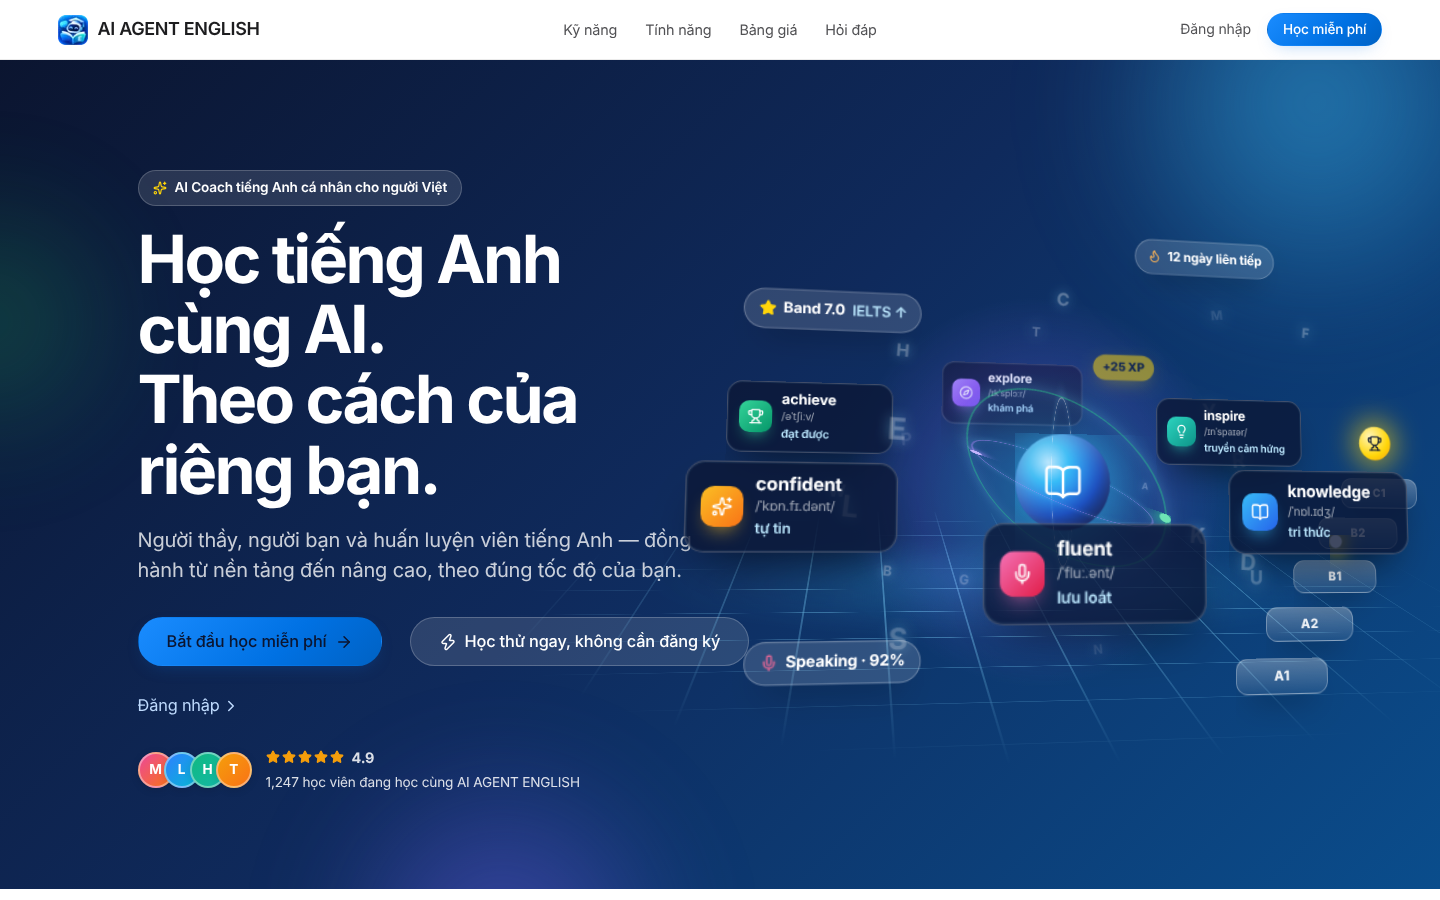
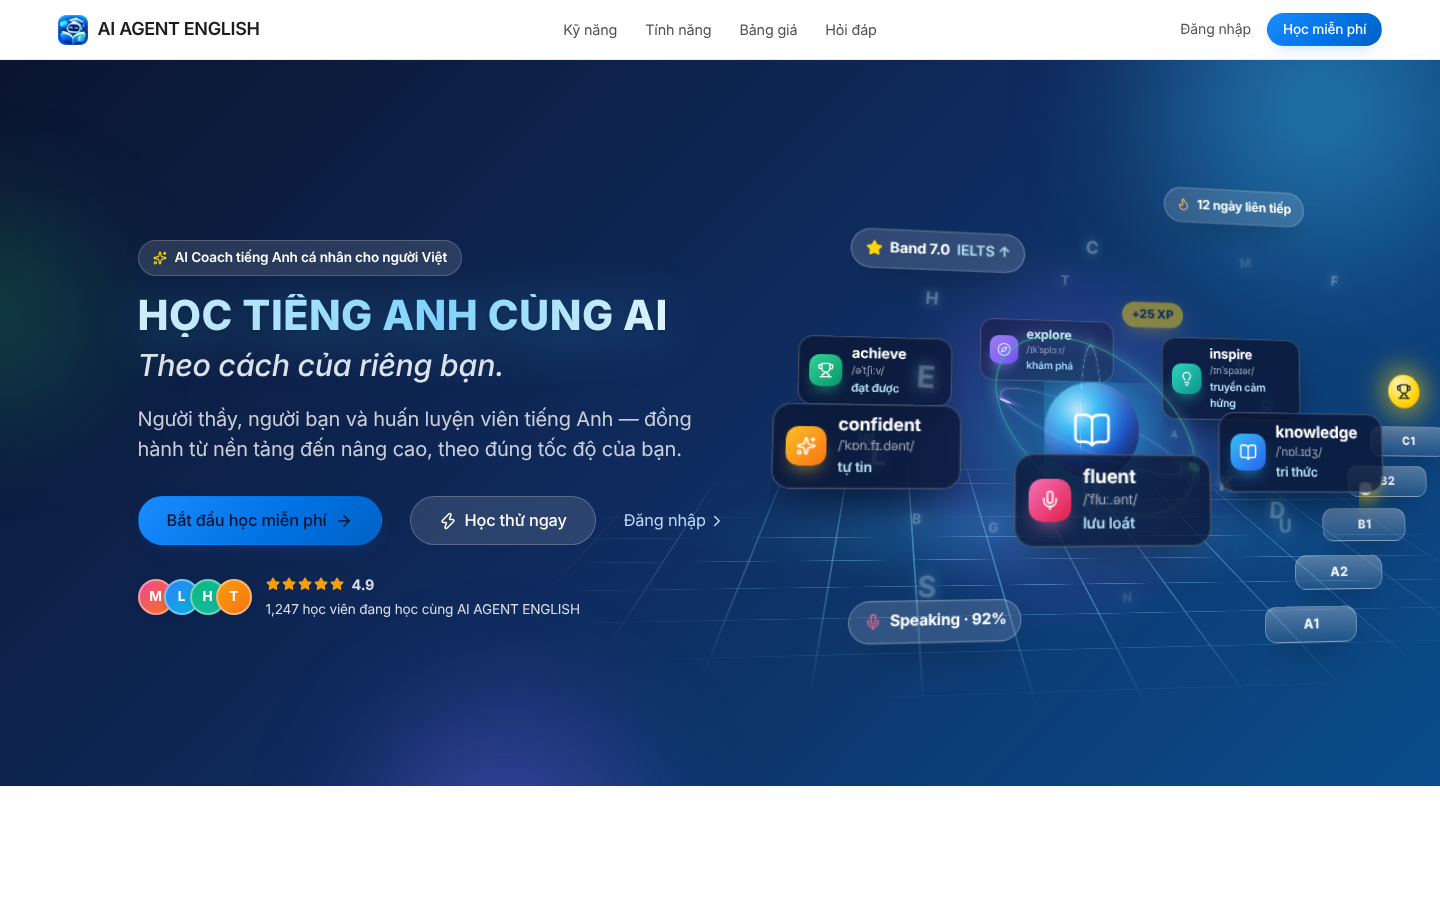
Landing hero: shorter guest button, 3D scene kept clear of the copy column
Claude-Session: https://claude.ai/code/session_01NQYD2mPXRd9sz3ZXhsrWoz

diff --git a/agen-web/src/app/globals.css b/agen-web/src/app/globals.css
@@ -2762,7 +2762,7 @@ a.quest-title:hover { color: var(--agen-primary); opacity: 1; }
   position: relative; z-index: 1; display: grid; grid-template-columns: minmax(0, 1fr); gap: 40px; align-items: center;
   padding: clamp(56px, 8vw, 110px) var(--page-gutter) clamp(56px, 8vw, 96px); max-width: 1280px; margin: 0 auto;
 }
-@media (min-width: 960px) { .lp-hero-inner { grid-template-columns: minmax(0, 1.15fr) minmax(0, 0.85fr); } }
+@media (min-width: 960px) { .lp-hero-inner { grid-template-columns: minmax(0, 1.1fr) minmax(0, 0.9fr); gap: 56px; } .lp-hero-copy { padding-right: 8px; } }
 .lp-hero-copy h1 { color: #fff; font-size: clamp(2.3rem, 4.6vw, 4.25rem); font-weight: 700; line-height: 1.06; letter-spacing: -0.04em; margin-bottom: 20px; }
 .lp-hero-copy p { color: rgba(255,255,255,0.78); font-size: clamp(1.05rem, 1.5vw, 1.25rem); line-height: 1.5; margin-bottom: 32px; max-width: 600px; }
 .lp-hero .hero-badge { background: rgba(255,255,255,0.12); border-color: rgba(255,255,255,0.2); color: #fff; box-shadow: none; }
@@ -2879,6 +2879,7 @@ a.quest-title:hover { color: var(--agen-primary); opacity: 1; }
    ============================================ */
 .lp-hero-scene { position: relative; min-height: 520px; }
 .h3d { position: absolute; inset: 0; perspective: 1100px; perspective-origin: 50% 45%; }
+@media (min-width: 960px) { .h3d { left: 40px; right: -40px; } }
 .h3d-stage { position: absolute; inset: 0; transform-style: preserve-3d; }
 .h3d-stage > * { position: absolute; left: 50%; top: 50%; transform-style: preserve-3d; }
 
@@ -2928,13 +2929,13 @@ a.quest-title:hover { color: var(--agen-primary); opacity: 1; }
 /* orbiting vocabulary cards (always facing the viewer) */
 .h3d-orbit-tilt { width: 0; height: 0; transform: rotateX(68deg); }
 .h3d-orbit-spin { position: absolute; transform-style: preserve-3d; animation: h3d-spin 42s linear infinite; }
-.h3d-orbit-item { position: absolute; transform: rotateZ(var(--a)) translateX(255px); transform-style: preserve-3d; }
+.h3d-orbit-item { position: absolute; transform: rotateZ(var(--a)) translateX(215px); transform-style: preserve-3d; }
 .h3d-orbit-unspin { transform-style: preserve-3d; animation: h3d-unspin 42s linear infinite; }
 .h3d-orbit-untilt { transform: rotateZ(calc(-1 * var(--a))) rotateX(-68deg); transform-style: preserve-3d; }
 @keyframes h3d-spin { to { transform: rotateZ(360deg); } }
 @keyframes h3d-unspin { to { transform: rotateZ(-360deg); } }
 .h3d-word {
-  display: flex; align-items: center; gap: 9px; width: 164px; padding: 9px 11px; border-radius: 15px; translate: -50% -50%;
+  display: flex; align-items: center; gap: 9px; width: 152px; padding: 8px 10px; border-radius: 15px; translate: -50% -50%;
   background: rgba(10,22,52,0.78); border: 1px solid rgba(255,255,255,0.22); box-shadow: 0 18px 40px -16px rgba(0,0,0,0.6), 0 0 0 1px rgba(125,211,252,0.08) inset;
   color: #fff; animation: h3d-bob 4.5s ease-in-out infinite; animation-delay: var(--d);
 }
@@ -2964,9 +2965,9 @@ a.quest-title:hover { color: var(--agen-primary); opacity: 1; }
 /* floating product chips */
 .h3d-chip { display: inline-flex; align-items: center; gap: 6px; padding: 7px 12px; border-radius: 99px; background: rgba(255,255,255,0.14); border: 1px solid rgba(255,255,255,0.25); color: #fff; font-size: 0.8rem; font-weight: 700; white-space: nowrap; box-shadow: 0 14px 30px -14px rgba(0,0,0,0.6); animation: h3d-bob 5s ease-in-out infinite; }
 .h3d-chip i { font-style: normal; font-weight: 600; color: #BAE6FD; }
-.h3d-chip-band { --z: 120px; left: calc(50% - 300px); top: calc(50% - 150px); }
+.h3d-chip-band { --z: 120px; left: calc(50% - 235px); top: calc(50% - 160px); }
 .h3d-chip-streak { --z: 60px; left: calc(50% + 60px); top: calc(50% - 235px); animation-delay: -1.7s; }
-.h3d-chip-speak { --z: 150px; left: calc(50% - 290px); top: calc(50% + 150px); animation-delay: -3.1s; }
+.h3d-chip-speak { --z: 150px; left: calc(50% - 230px); top: calc(50% + 160px); animation-delay: -3.1s; }
 
 @media (max-width: 1200px) { .h3d-stage { scale: 0.86; } }
 @media (max-width: 959px) {

diff --git a/agen-web/src/app/page.tsx b/agen-web/src/app/page.tsx
@@ -223,7 +223,7 @@ export default function HomePage() {
               <Link href="/register" className="btn btn-primary btn-lg btn-shine">
                 Bắt đầu học miễn phí <ArrowRight size={18} />
               </Link>
-              <GuestTrialButton className="btn btn-lg hero-guest-btn" />
+              <GuestTrialButton className="btn btn-lg hero-guest-btn" label="Học thử ngay" />
               <Link href="/login" className="hero-link">
                 Đăng nhập <ChevronRight size={18} />
               </Link>
